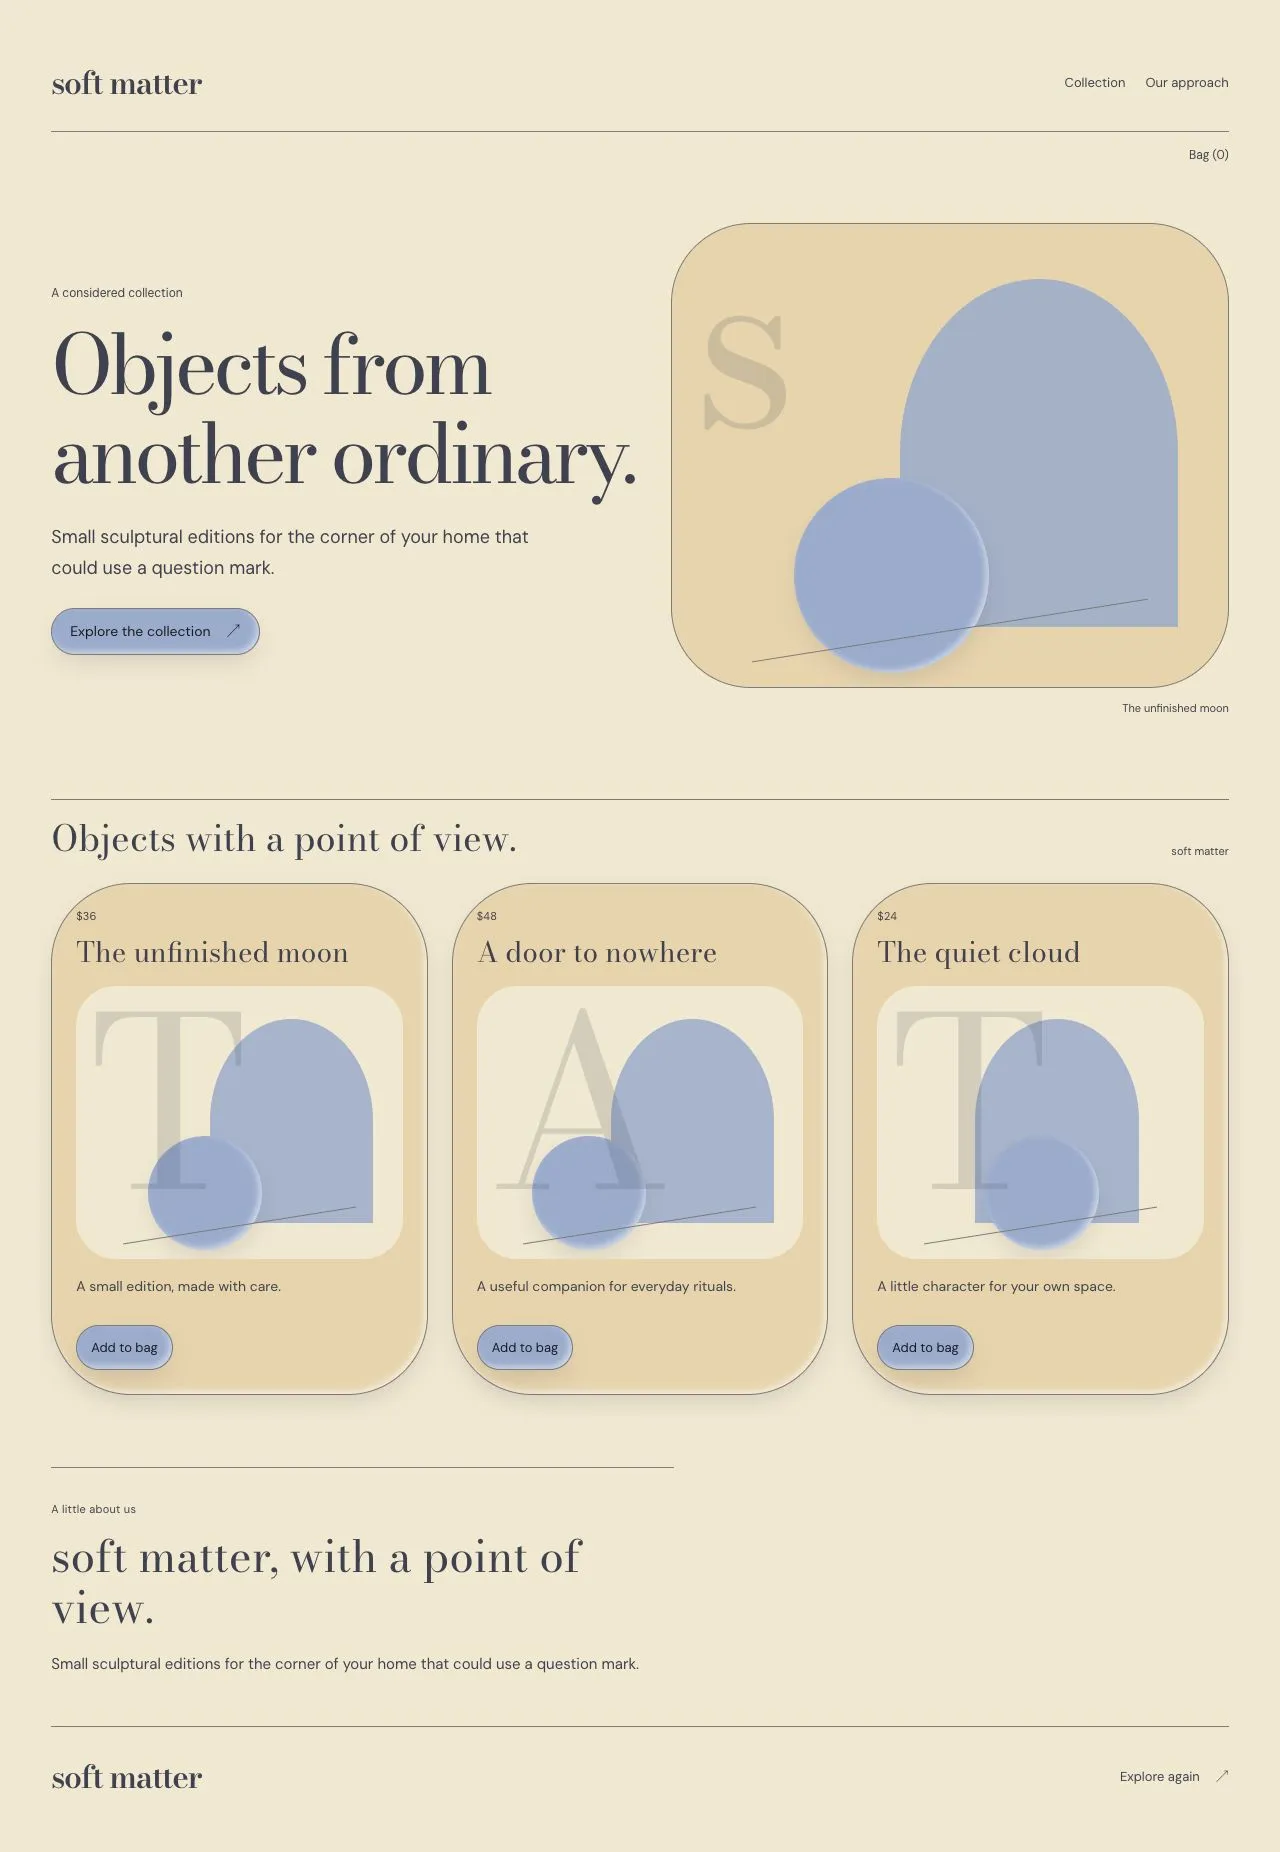
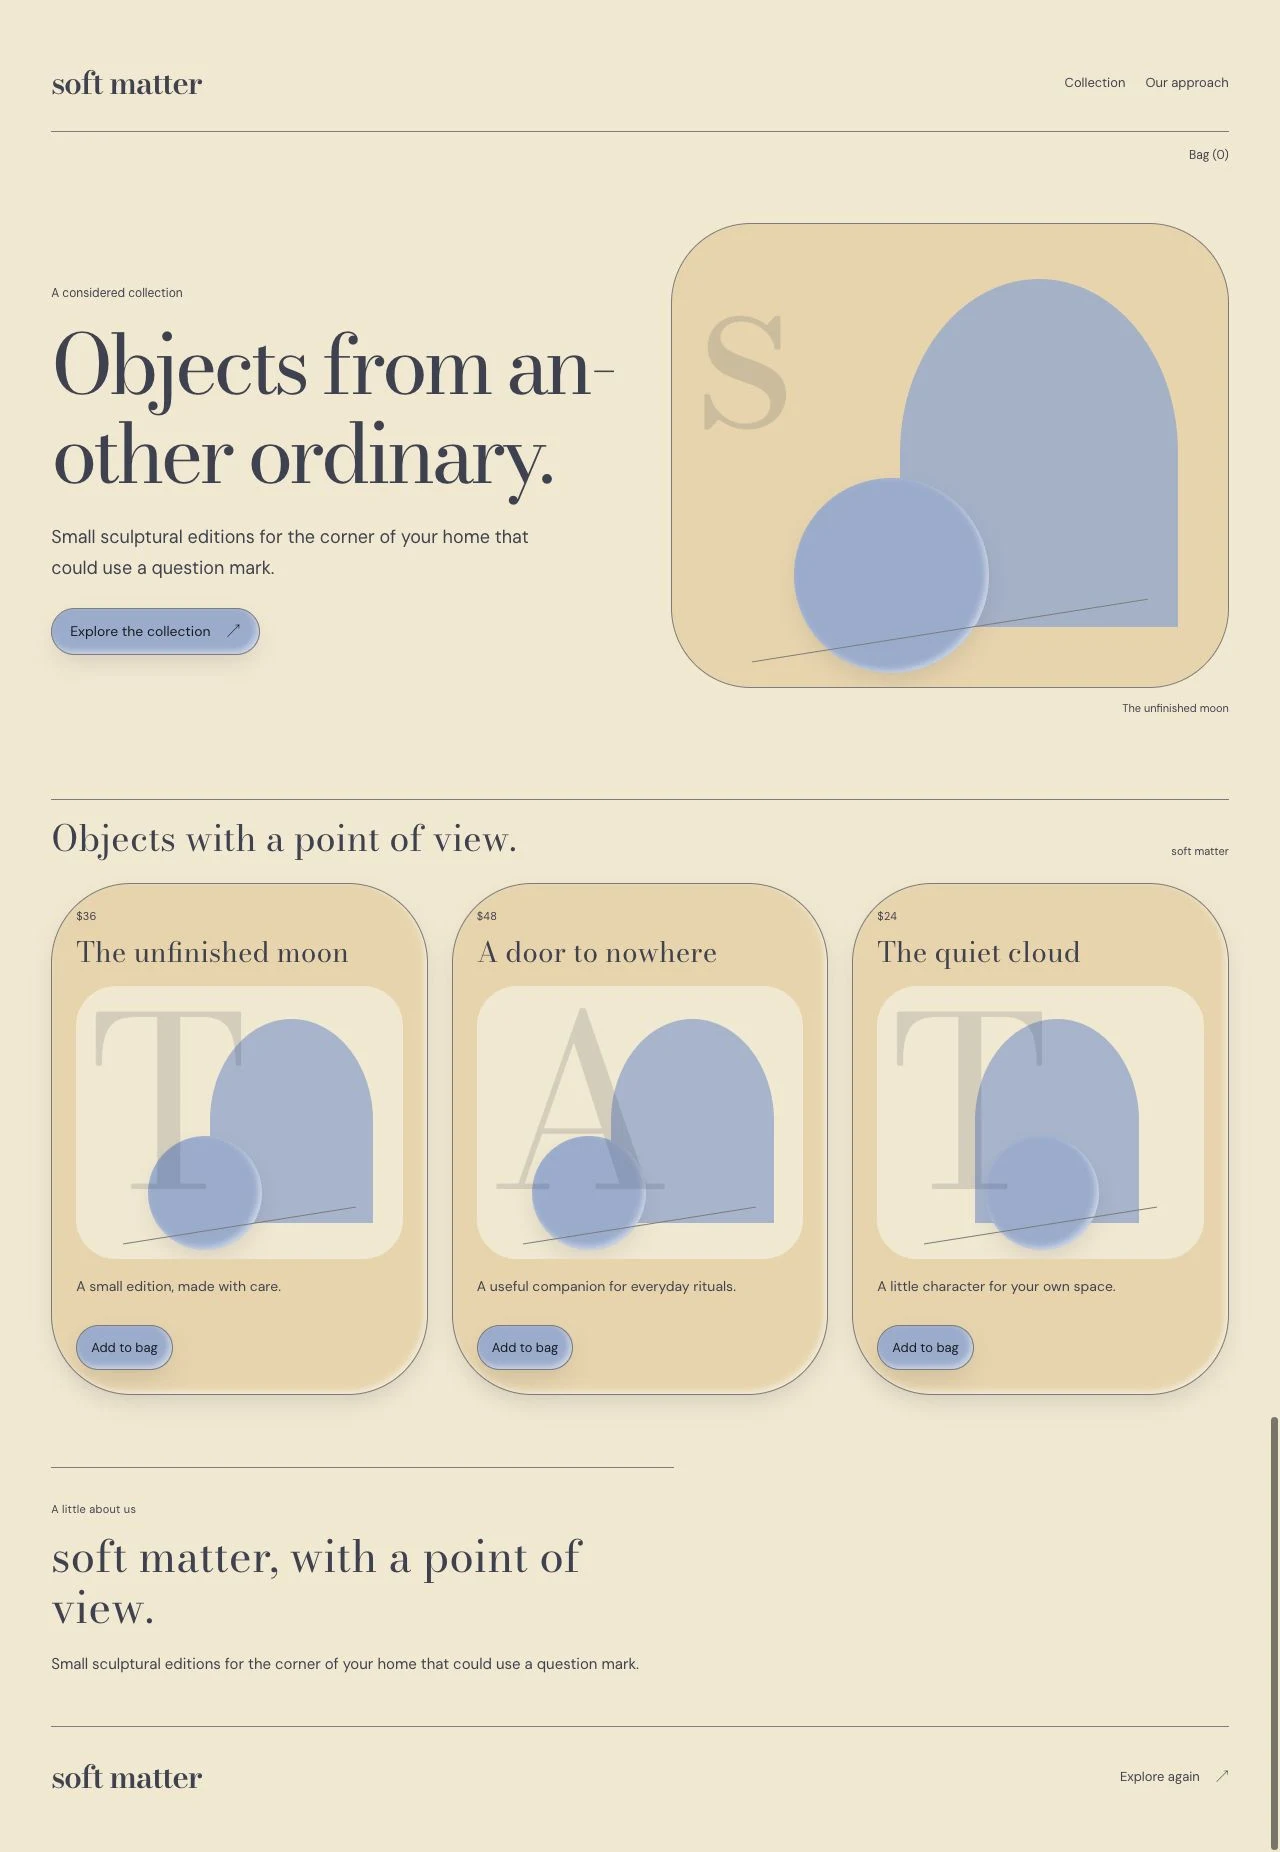
Refresh surrealism references and synchronize its reusable skill assets.

Changed region(s): [[0.0312, 0.1847, 0.5, 0.277], [0.9688, 0.7694, 1.0, 1.0]]

diff --git a/skills/designkit-surrealism/assets/shared/KitControls.tsx b/skills/designkit-surrealism/assets/shared/KitControls.tsx
@@ -1,11 +1,14 @@
 "use client";
-
 import {
   useEffect,
   useId,
   useRef,
+  useState,
   type ButtonHTMLAttributes,
   type InputHTMLAttributes,
+  type HTMLAttributes,
+  type DialogHTMLAttributes,
+  type MouseEvent,
   type ReactNode,
 } from "react";
 
@@ -26,15 +29,16 @@ export function KitCard({
   label,
   children,
   action,
-}: {
-  title: string;
-  label?: string;
-  children?: ReactNode;
+  className = "",
+  ...props
+}: Omit<HTMLAttributes<HTMLElement>, "title"> & {
+  title: ReactNode;
+  label?: ReactNode;
   action?: ReactNode;
 }) {
   return (
-    <article className="kit-card">
-      <span className="kit-label">{label}</span>
+    <article {...props} className={`kit-card ${className}`}>
+      {label ? <span className="kit-label">{label}</span> : null}
       <h3>{title}</h3>
       {children}
       {action ? <div className="kit-card-action">{action}</div> : null}
@@ -44,18 +48,38 @@ export function KitCard({
 export function KitNavigation({
   brand,
   links,
-}: {
+  onNavigate,
+  className = "",
+  ...props
+}: HTMLAttributes<HTMLElement> & {
   brand: string;
   links: { label: string; href: string }[];
+  onNavigate?: (href: string, event: MouseEvent<HTMLAnchorElement>) => void;
 }) {
   return (
-    <nav className="kit-navigation" aria-label={`${brand} example navigation`}>
-      <a className="kit-brand" href={links[0]?.href}>
-        {brand}
-      </a>
+    <nav
+      {...props}
+      className={`kit-navigation ${className}`}
+      aria-label={props["aria-label"] || `${brand} navigation`}
+    >
+      {links[0]?.href ? (
+        <a
+          className="kit-brand"
+          href={links[0].href}
+          onClick={(event) => onNavigate?.(links[0].href, event)}
+        >
+          {brand}
+        </a>
+      ) : (
+        <span className="kit-brand">{brand}</span>
+      )}
       <div>
-        {links.map((link) => (
-          <a key={link.label} href={link.href}>
+        {links.map((link, index) => (
+          <a
+            key={`${link.href}:${index}`}
+            href={link.href}
+            onClick={(event) => onNavigate?.(link.href, event)}
+          >
             {link.label}
           </a>
         ))}
@@ -69,16 +93,20 @@ export function KitField({
   id,
   ...props
 }: InputHTMLAttributes<HTMLInputElement> & { label: string; error?: string }) {
-  const generated = useId();
-  const fieldId = id || generated;
+  const generated = useId(),
+    fieldId = id || generated;
+  const describedBy =
+    [props["aria-describedby"], error ? `${fieldId}-error` : undefined]
+      .filter(Boolean)
+      .join(" ") || undefined;
   return (
     <div className="kit-field">
       <label htmlFor={fieldId}>{label}</label>
       <input
         {...props}
         id={fieldId}
-        aria-invalid={Boolean(error)}
-        aria-describedby={error ? `${fieldId}-error` : undefined}
+        aria-invalid={error ? true : props["aria-invalid"]}
+        aria-describedby={describedBy}
       />
       {error ? (
         <p id={`${fieldId}-error`} className="kit-field-error">
@@ -91,43 +119,100 @@ export function KitField({
 export function KitStatus({
   state,
   children,
-}: {
+  className = "",
+  ...props
+}: HTMLAttributes<HTMLParagraphElement> & {
   state: "loading" | "empty" | "error" | "success";
-  children: ReactNode;
 }) {
   return (
     <p
-      className={`kit-status kit-status-${state}`}
-      role={state === "error" ? "alert" : "status"}
+      {...props}
+      className={`kit-status kit-status-${state} ${className}`}
+      role={props.role || (state === "error" ? "alert" : "status")}
     >
       {children}
     </p>
   );
 }
+const bodyLocks = new WeakMap<
+  HTMLElement,
+  { count: number; overflow: string }
+>();
+function lockBody(body: HTMLElement) {
+  const lock = bodyLocks.get(body) || {
+    count: 0,
+    overflow: body.style.overflow,
+  };
+  lock.count++;
+  bodyLocks.set(body, lock);
+  body.style.overflow = "hidden";
+  let released = false;
+  return () => {
+    if (released) return;
+    released = true;
+    lock.count--;
+    if (!lock.count) {
+      body.style.overflow = lock.overflow;
+      bodyLocks.delete(body);
+    }
+  };
+}
+type KitDialogProps = Omit<
+  DialogHTMLAttributes<HTMLDialogElement>,
+  "title" | "open"
+> & { title: ReactNode; trigger: ReactNode } & (
+    | { open?: undefined; onOpenChange?: (open: boolean) => void }
+    | { open: boolean; onOpenChange: (open: boolean) => void }
+  );
 export function KitDialog({
   trigger,
   title,
   children,
-}: {
-  trigger: string;
-  title: string;
-  children: ReactNode;
-}) {
-  const dialog = useRef<HTMLDialogElement>(null);
-  const opener = useRef<HTMLButtonElement>(null);
-  const previousOverflow = useRef<string | null>(null);
-  const titleId = useId();
-  const restore = () => {
-    if (previousOverflow.current !== null) {
-      document.body.style.overflow = previousOverflow.current;
-      previousOverflow.current = null;
-    }
-    opener.current?.focus({ preventScroll: true });
+  open,
+  onOpenChange,
+  className = "",
+  onClose,
+  onCancel,
+  ...props
+}: KitDialogProps) {
+  const dialog = useRef<HTMLDialogElement>(null),
+    opener = useRef<HTMLButtonElement>(null);
+  const previousFocus = useRef<HTMLElement | null>(null),
+    release = useRef<(() => void) | null>(null);
+  const [internalOpen, setInternalOpen] = useState(false);
+  const isOpen = open ?? internalOpen,
+    titleId = useId();
+  const request = (next: boolean) => {
+    if (open === undefined) setInternalOpen(next);
+    onOpenChange?.(next);
   };
+  const restore = () => {
+    release.current?.();
+    release.current = null;
+    const target = previousFocus.current?.isConnected
+      ? previousFocus.current
+      : opener.current;
+    if (target?.isConnected) target.focus({ preventScroll: true });
+    previousFocus.current = null;
+  };
+  useEffect(() => {
+    const element = dialog.current;
+    if (!element) return;
+    if (isOpen) {
+      if (!element.open) {
+        previousFocus.current ??=
+          document.activeElement instanceof HTMLElement
+            ? document.activeElement
+            : opener.current;
+        element.showModal();
+      }
+      if (!release.current) release.current = lockBody(document.body);
+    } else if (!isOpen && element.open) element.close();
+  }, [isOpen]);
   useEffect(
     () => () => {
-      if (previousOverflow.current !== null)
-        document.body.style.overflow = previousOverflow.current;
+      release.current?.();
+      release.current = null;
     },
     [],
   );
@@ -137,21 +222,27 @@ export function KitDialog({
         ref={opener}
         className="kit-button kit-button-secondary"
         type="button"
+        aria-haspopup="dialog"
         onClick={() => {
-          previousOverflow.current = document.body.style.overflow;
-          dialog.current?.showModal();
-          document.body.style.overflow = "hidden";
+          previousFocus.current = opener.current;
+          request(true);
         }}
       >
         {trigger}
       </button>
       <dialog
-        className="kit-dialog"
+        {...props}
+        className={`kit-dialog ${className}`}
         ref={dialog}
-        aria-labelledby={titleId}
-        onClose={restore}
+        aria-labelledby={props["aria-labelledby"] || titleId}
+        onCancel={(event) => onCancel?.(event)}
+        onClose={(event) => {
+          restore();
+          if (isOpen) request(false);
+          onClose?.(event);
+        }}
       >
-        <div>
+        <div className="kit-dialog-heading">
           <h3 id={titleId}>{title}</h3>
           <button
             type="button"

diff --git a/skills/designkit-surrealism/assets/shared/ExampleCanvas.tsx b/skills/designkit-surrealism/assets/shared/ExampleCanvas.tsx
@@ -1,6 +1,6 @@
 "use client";
 
-import { useId, useState, type CSSProperties } from "react";
+import { useId, useState, type CSSProperties, type MouseEvent } from "react";
 import type {
   DesignExample,
   PlaygroundSettings,
@@ -62,10 +62,19 @@ export default function ExampleCanvas({
     `${item.title} ${item.label}`.toLowerCase().includes(query.toLowerCase()),
   );
   const headline = normalized.headline;
-  const goToContent = () =>
-    document
-      .getElementById(sectionId)
-      ?.scrollIntoView({ behavior: "instant", block: "start" });
+  const focusSection = (id: string) => {
+    const target = document.getElementById(id);
+    target?.scrollIntoView({ behavior: "instant", block: "start" });
+    target?.focus({ preventScroll: true });
+  };
+  const navigateWithinExample = (
+    href: string,
+    event: MouseEvent<HTMLAnchorElement>,
+  ) => {
+    event.preventDefault();
+    focusSection(href.slice(1));
+  };
+  const goToContent = () => focusSection(sectionId);
   const contextLabel = {
     shop: "A considered collection",
     journal: "An independent journal",
@@ -90,6 +99,7 @@ export default function ExampleCanvas({
     >
       <KitNavigation
         brand={example.brand}
+        onNavigate={navigateWithinExample}
         links={[
           {
             label:
@@ -322,14 +332,17 @@ export default function ExampleCanvas({
           </>
         )}
       </section>
-      <section id={aboutId} className="kit-about">
+      <section id={aboutId} className="kit-about" tabIndex={-1}>
         <span className="kit-label">A little about us</span>
         <h3>{example.brand}, with a point of view.</h3>
         <p>{example.description}</p>
       </section>
       <footer className="kit-footer">
         <span className="kit-brand">{example.brand}</span>
-        <a href={`#${sectionId}`}>
+        <a
+          href={`#${sectionId}`}
+          onClick={(event) => navigateWithinExample(`#${sectionId}`, event)}
+        >
           Explore again <span aria-hidden="true">↗</span>
         </a>
       </footer>

diff --git a/skills/designkit-surrealism/assets/shared/kit.css b/skills/designkit-surrealism/assets/shared/kit.css
@@ -42,6 +42,7 @@
   font-family: var(--dk-heading), serif;
   font-synthesis: none;
   overflow-wrap: anywhere;
+  hyphens: auto;
 }
 .kit-canvas :is(button, a, input, select, textarea):focus-visible,
 .kit-component-surface :is(button, a, input, select, textarea):focus-visible {
@@ -353,6 +354,11 @@
   background: var(--dk-canvas);
 }
 .kit-dialog {
+  margin: auto;
+  max-height: calc(100dvh - 48px);
+  overflow: auto;
+  overscroll-behavior: contain;
+  overflow-wrap: anywhere;
   max-width: min(520px, calc(100vw - 40px));
   padding: 28px;
   color: var(--dk-ink);
@@ -365,7 +371,7 @@
 .kit-dialog::backdrop {
   background: rgb(0 0 0 / 0.45);
 }
-.kit-dialog > div {
+.kit-dialog-heading {
   display: flex;
   justify-content: space-between;
   gap: 20px;

diff --git a/skills/designkit-surrealism/assets/shared/tokens.ts b/skills/designkit-surrealism/assets/shared/tokens.ts
@@ -3,6 +3,7 @@ import type {
   PlaygroundSettings,
   StyleRecipe,
 } from "./types";
+import { kitVersion } from "./types";
 
 export const fontFamilies = [
   "Archivo Black",
@@ -258,7 +259,7 @@ export function exportDesignTokens(
       "dev.designkit": {
         exampleId: example.id,
         styleId: example.styleId,
-        version: "2.0.0",
+        version: kitVersion,
         settings,
         cssShadow: values["--dk-shadow"],
       },
